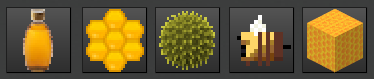
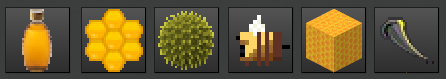
beeswax

diff --git a/petz/docs/petz.md b/petz/docs/petz.md
@@ -208,7 +208,7 @@ Clownfish & Tropical Fish
 - All the bees need belong to a behive. If their behive is destroyed, all the bees will die. Only the Queen Bees do not need a behive to survive.
 - Worker Bees do not spawn naturally.
 - Queen Bees can spawn and create one colony (behive) in wood or leaves.
-- Bees can drop pollen.
+- Bees can drop pollen and/or a sting.
 
 ### Things you can with Petz
 - Configure the models as "mesh" (by default) or "cubic" (nodebox, no animated, no too laggy) via the 'petz.conf'
@@ -421,6 +421,7 @@ Instructions to use:
 - If you destroy a behive all their bees will die. Six honeycomb will be dropped.
 - You can create a behive with 6 honeycombes and one captured worker bee.
 - Player created behives only will have one bee when placed. But you can add more captured bees to a behive (right click) till the limit. Be care: If you put manually a new bee on a behive and the limit is reached, a bee that would be out when come back will die when entering the behive, in order the limit being respected.
+- If you put an igniter or a torch below a behive (til 4 nodes), the bees inside will go out.
 - Trick: Put some flowers surrounding the behive to start the production of honey.
 - Trick: Point to a behive to known its statistics about the honey and bees (currently inside).
 
